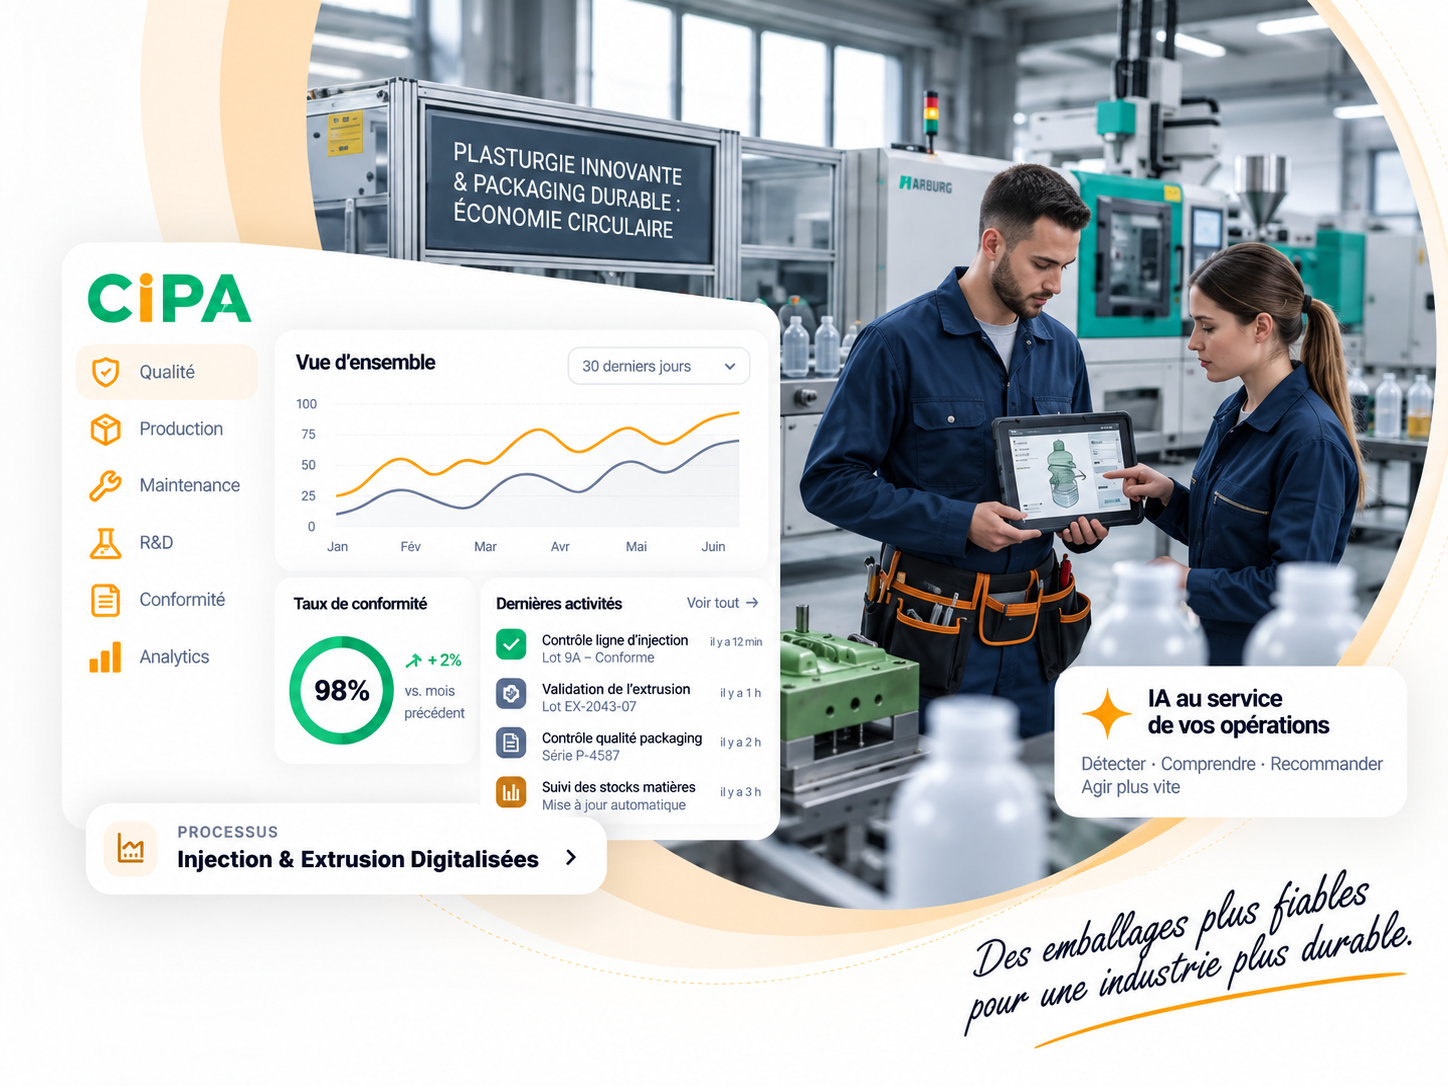
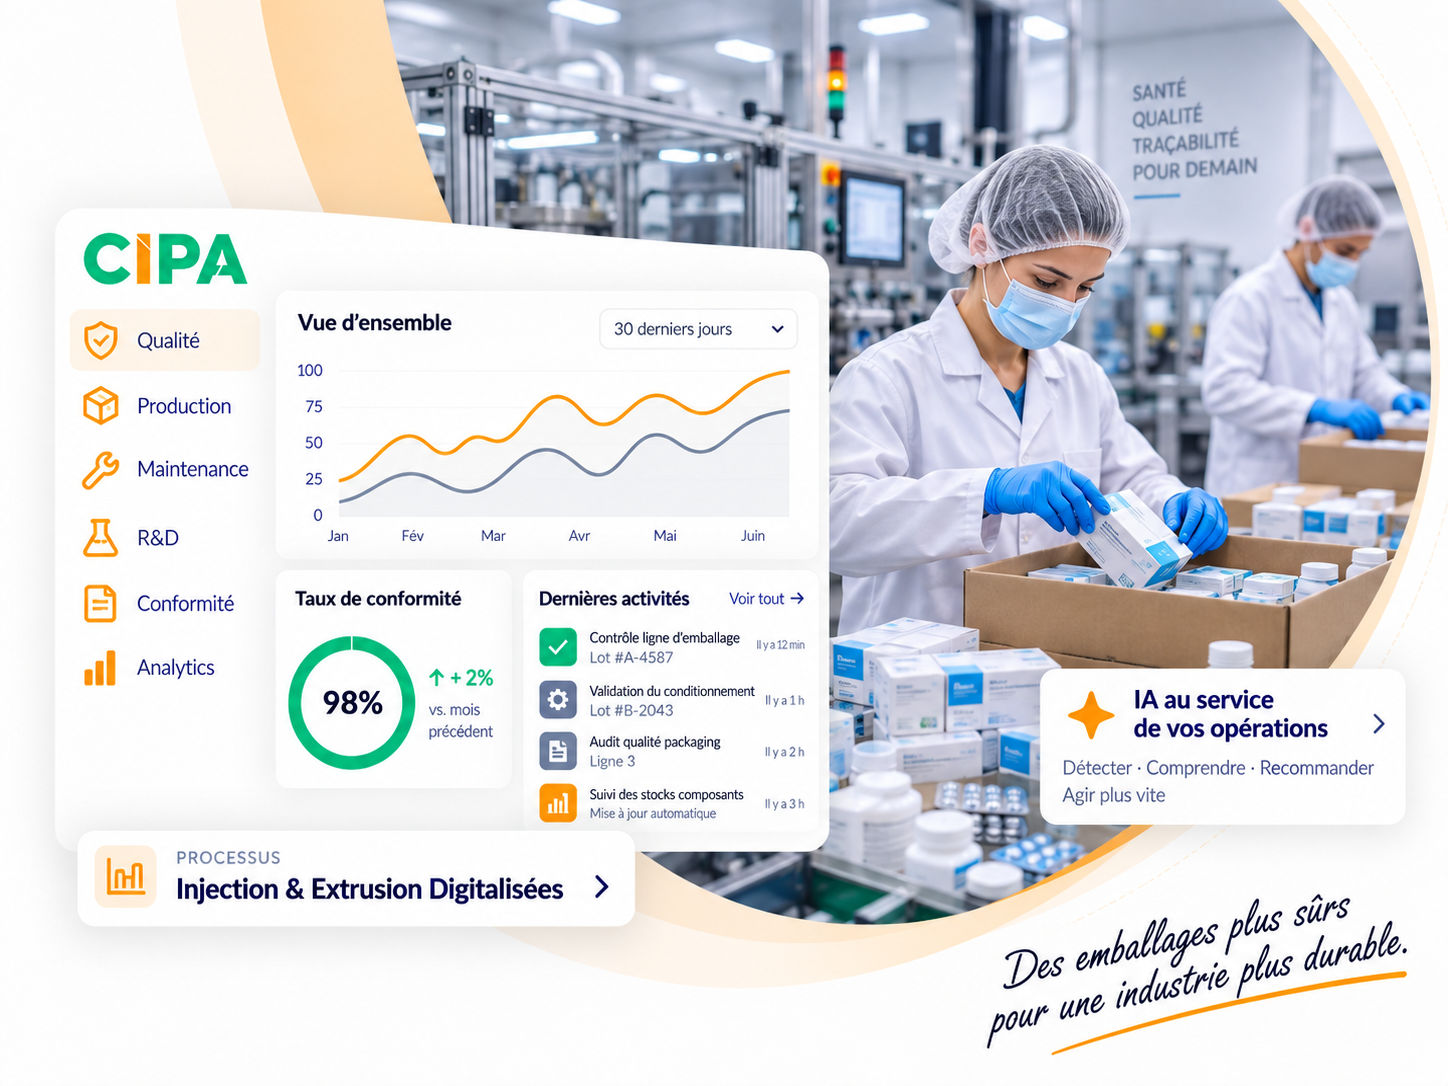
fix(industries): visuel packaging definitif et calage du hero automobile
- packaging.png : nouveau visuel compose (ligne d'emballage de produits
  medicaux), aligne sur le meme cadrage 1448x1086 que les cinq autres secteurs
- IndustryPage : classe automotiveCopy sur la colonne de texte du slug
  automotive, pour resserrer la premiere rangee de la grille et centrer le
  bloc face a un visuel plus haut

diff --git a/components/industries/IndustryPage.tsx b/components/industries/IndustryPage.tsx
@@ -52,7 +52,7 @@ export default function IndustryPage({ slug }: { slug: string }) {
         <div className={`${heroStyles.content} relative lg:min-h-[calc(min(40.5vw,570px,100svh_-_150px)_-_2.5rem)]`}>
           <div className={`${heroStyles.grid} mx-auto grid w-full max-w-[1400px] grid-cols-1 items-start gap-8 px-5 sm:px-7 lg:grid-cols-12 lg:gap-6 lg:px-10`}>
             {/* ---------- Colonne texte ---------- */}
-            <div className={`${heroStyles.copy} relative z-10 pt-10 lg:col-span-6 lg:pt-[clamp(2rem,3vw,3rem)] lg:pb-4`}>
+            <div className={`${heroStyles.copy} ${slug === 'automotive' ? heroStyles.automotiveCopy : ''} relative z-10 pt-10 lg:col-span-6 lg:pt-[clamp(2rem,3vw,3rem)] lg:pb-4`}>
               <div className={heroStyles.intro}>
                 <motion.div
                   initial={{ opacity: 0, y: 14 }}

diff --git a/components/industries/hero.module.css b/components/industries/hero.module.css
@@ -50,6 +50,10 @@
     grid-template-rows: minmax(24px, 1fr) auto minmax(80px, 1fr);
   }
 
+  .automotiveCopy {
+    grid-template-rows: clamp(32px, 5svh, 64px) auto minmax(80px, 1fr);
+  }
+
   .title {
     font-size: clamp(30px, min(2.55vw, 5svh), 43px);
   }
